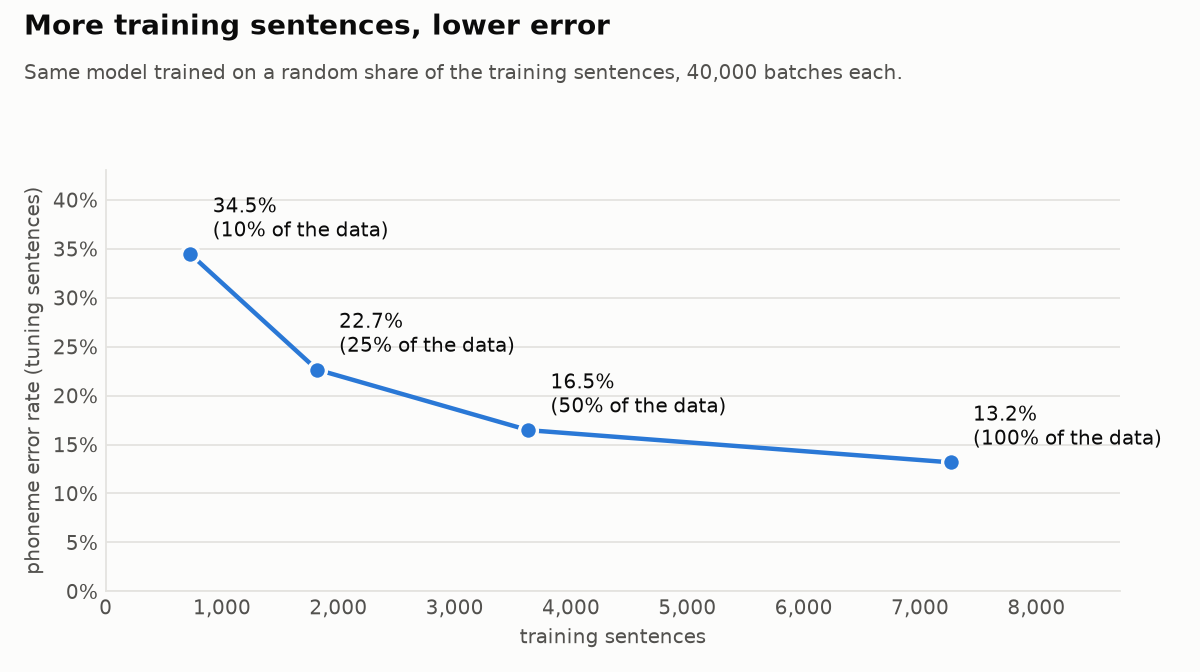
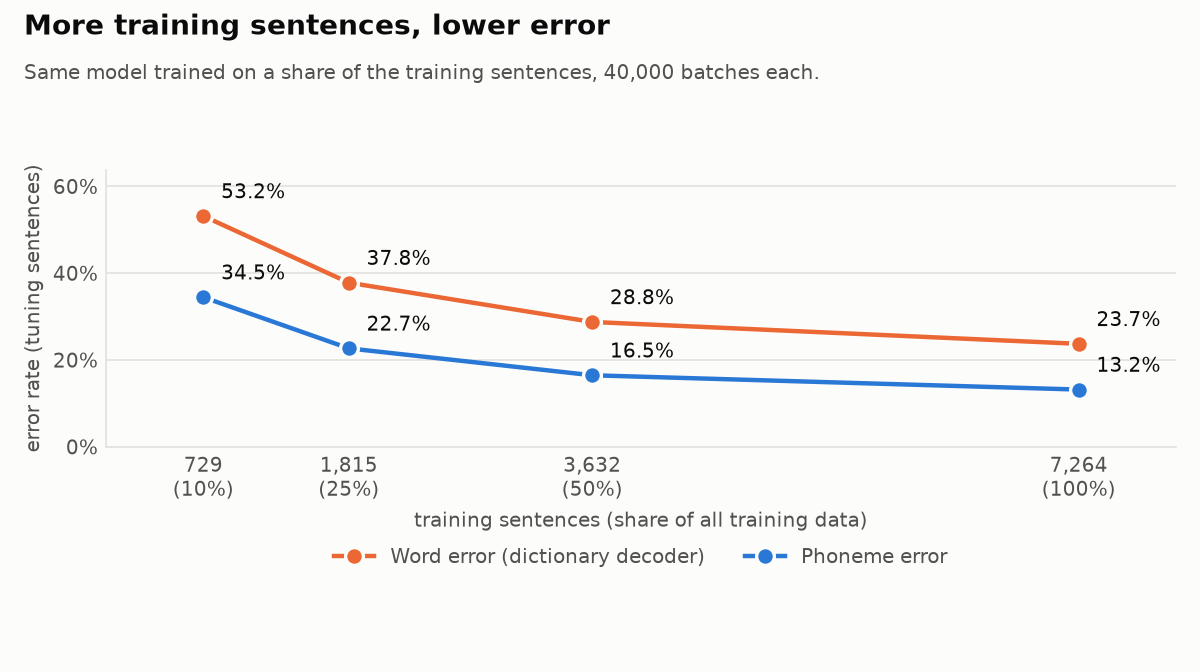
Update graphs with 80k and word-error results; embed graphs in notes

diff --git a/b2t/analyze.py b/b2t/analyze.py
@@ -74,10 +74,10 @@ def save(fig, name):
     print(f"  saved figures/{name}")
 
 
-def legend_below(ax, handles=None, title=None):
+def legend_below(ax, handles=None, drop=0.2):
     """A legend in one row under the graph, where it cannot cover the data."""
-    ax.legend(handles=handles, frameon=False, fontsize=9, labelcolor=INK_SOFT, title=title,
-              title_fontsize=9, loc="upper center", bbox_to_anchor=(0.5, -0.2), ncols=4)
+    ax.legend(handles=handles, frameon=False, fontsize=9, labelcolor=INK_SOFT,
+              loc="upper center", bbox_to_anchor=(0.5, -drop), ncols=4)
 
 
 def percent_axis(ax, label):
@@ -321,19 +321,31 @@ def main():
                   f"(best at batch {f['best_at_batch']}){words}")
 
         fig, ax = new_chart("More training sentences, lower error",
-                            "Same model trained on a random share of the training sentences, 40,000 batches each.")
+                            "Same model trained on a share of the training sentences, 40,000 batches each.")
         xs = [f["sentences"] for f in fractions]
         ys = [100 * f["best_tune_phoneme_error"] for f in fractions]
+        have_words = all(f["tune_word_error_dictionary"] is not None for f in fractions)
+        top = max(ys)
+        if have_words:
+            ws = [100 * f["tune_word_error_dictionary"] for f in fractions]
+            top = max(ws)
+            ax.plot(xs, ws, color=SECOND, linewidth=2, marker="o", markersize=8,
+                    markeredgecolor=SURFACE, markeredgewidth=1.5, label="Word error (dictionary decoder)")
+            for x, w in zip(xs, ws):
+                ax.annotate(f"{w:.1f}%", (x, w), textcoords="offset points", xytext=(8, 8),
+                            fontsize=9, color=INK)
         ax.plot(xs, ys, color=OURS, linewidth=2, marker="o", markersize=8,
-                markeredgecolor=SURFACE, markeredgewidth=1.5)
-        for f, x, y in zip(fractions, xs, ys):
-            ax.annotate(f"{y:.1f}%\n({f['fraction']:.0%} of the data)", (x, y), textcoords="offset points",
-                        xytext=(10, 8), fontsize=9, color=INK)
-        ax.set_xlabel("training sentences", color=INK_SOFT, fontsize=9)
-        ax.xaxis.set_major_formatter(lambda v, _: f"{v:,.0f}")
-        ax.set_xlim(0, max(xs) * 1.2)
-        percent_axis(ax, "phoneme error rate (tuning sentences)")
-        ax.set_ylim(0, max(ys) * 1.25)
+                markeredgecolor=SURFACE, markeredgewidth=1.5, label="Phoneme error")
+        for x, y in zip(xs, ys):
+            ax.annotate(f"{y:.1f}%", (x, y), textcoords="offset points", xytext=(8, 8),
+                        fontsize=9, color=INK)
+        ax.set_xticks(xs, [f"{x:,}\n({f['fraction']:.0%})" for x, f in zip(xs, fractions)])
+        ax.set_xlabel("training sentences (share of all training data)", color=INK_SOFT, fontsize=9)
+        ax.set_xlim(0, max(xs) * 1.1)
+        percent_axis(ax, "error rate (tuning sentences)")
+        ax.set_ylim(0, top * 1.2)
+        if have_words:
+            legend_below(ax, drop=0.3)
         save(fig, "data_amount.png")
 
         fig, ax = new_chart("Less data is used up sooner",

diff --git a/notes/NOTES.md b/notes/NOTES.md
@@ -282,13 +282,21 @@ size 32 (about 1.85 hours each). All four are scored on the same 808 tune senten
 
 | Run | Training sentences | Best tune phoneme error | Batch where it peaked |
 |---|---|---|---|
-| `frac_0.10` | 729 | 34.5% | TODO |
-| `frac_0.25` | 1,815 | 22.7% | TODO |
-| `frac_0.50` | 3,632 | 16.5% | TODO |
-| `frac_1.00` | 7,264 | 13.2% | TODO |
+| `frac_0.10` | 729 | 34.5% | 36,000 |
+| `frac_0.25` | 1,815 | 22.7% | 36,000 |
+| `frac_0.50` | 3,632 | 16.5% | 40,000 |
+| `frac_1.00` | 7,264 | 13.2% | 40,000 |
 
-Results in (Sun morning), read from the terminal; to be confirmed against the
-`run.json` files once they are pushed.
+Tune word error with the dictionary decoder (no language model), same four runs:
+53.2%, 37.8%, 28.8%, 23.7%. Graphs: `figures/data_amount.png` and
+`figures/training_by_data_amount.png`.
+
+Results confirmed against the pushed `run.json` files (Sun morning).
+- The 10% run had finished learning by about 20,000 batches (34.9% then, 34.5% at
+  the end). The 100% run was still improving at 40,000 (15.1% at 20,000, 13.2% at
+  the end). The more data there is, the longer it is worth training.
+- Also scored on val on Sunday (dictionary decoder only) as a description of the
+  experiment, not to choose anything. Val results: TODO.
 - Every doubling of data still helps, by a shrinking amount: 10% -> 25% cut error by
   11.8 points, 25% -> 50% by 6.2, 50% -> 100% by 3.3. The curve has not flattened, so
   more recording from this participant would probably still improve the model.
@@ -320,10 +328,14 @@ learning-rate schedule.
 | Batches (batch size 32) | Best tune phoneme error | Run |
 |---|---|---|
 | 40,000 | 13.2% | `frac_1.00` |
-| 80,000 | TODO | started early Sun morning |
+| 80,000 | 11.0% | `frac_1_80k` (record saved as `results/run_a_80k_run.json`) |
 | 120,000 | 10.4% | `run_a` (our final model) |
 
-### Drift experiment (planned Sun morning; replaces the dropped calibration idea)
+- Doubling training from 40,000 to 80,000 batches cut error by 2.2 points; the next
+  40,000 cut it by only 0.6. Most of the benefit of longer training is in by 80,000.
+- Graph: `figures/training_length.png`.
+
+### Drift experiment (started Sun about 10:30 AM; replaces the dropped calibration idea)
 Question: how fast does accuracy fall as time passes after training, and does a
 quick recalibration bring it back? In practice: how often would a user need to
 recalibrate, and how much would it take?
@@ -438,8 +450,8 @@ recalibrate, and how much would it take?
 - [ ] Morning: copy the four `runs/frac_*/run.json` files into `results/`, re-run
       the audit, push
 - [x] Data-amount results recorded (34.5 / 22.7 / 16.5 / 13.2%)
-- [ ] Make the data-amount graph
-- [ ] Record the 80,000-batch run's result
+- [x] Data-amount graph made; 80,000-batch result recorded (11.0%)
+- [ ] Record the data-amount runs' val scores
 - [ ] Train the drift model (`runs/drift`), run `b2t.drift`, record results, make the graph
 - [x] Final model: Run A (short). Val scored Sat night
 - [ ] Breakdowns and graphs (see questions below)
@@ -467,6 +479,33 @@ does not separate the two).
   Not yet measured; the per-type breakdown of `results/run_a_val.json` will show it.
 - Random-word and Harvard samples in val will be small (a few dozen sentences
   each), so those per-type numbers will be noisy.
+
+### Graphs (latest versions)
+All made by `python -m b2t.analyze`, which re-draws every graph from the files in
+`results/`. Re-run it whenever new results arrive. Images are in `figures/`.
+
+**Our model against the simple baseline** (val, 1,426 held-out sentences)
+![Baseline against our model](../figures/baseline_vs_model.png)
+
+**More training sentences, lower error** (data-amount experiment, tune)
+![Data amount](../figures/data_amount.png)
+
+**Less data is used up sooner** (the same four runs, during training)
+![Training by data amount](../figures/training_by_data_amount.png)
+
+**Training for longer** (same model and data; 40,000 / 80,000 / 120,000 batches, tune)
+![Training length](../figures/training_length.png)
+
+**How the final model improved during training** (Run A, tune)
+![Training curve](../figures/training_curve.png)
+
+**Error by kind of sentence** (Run A, val)
+![Error by sentence type](../figures/error_by_sentence_type.png)
+
+**Error by sentence length** (Run A, val)
+![Error by sentence length](../figures/error_by_sentence_length.png)
+
+Still to come: `figures/drift.png`, once the drift experiment has run.
 
 ### Analysis of Run A on val (Sun morning)
 From `python -m b2t.analyze`, which reads the saved predictions and writes graphs to
